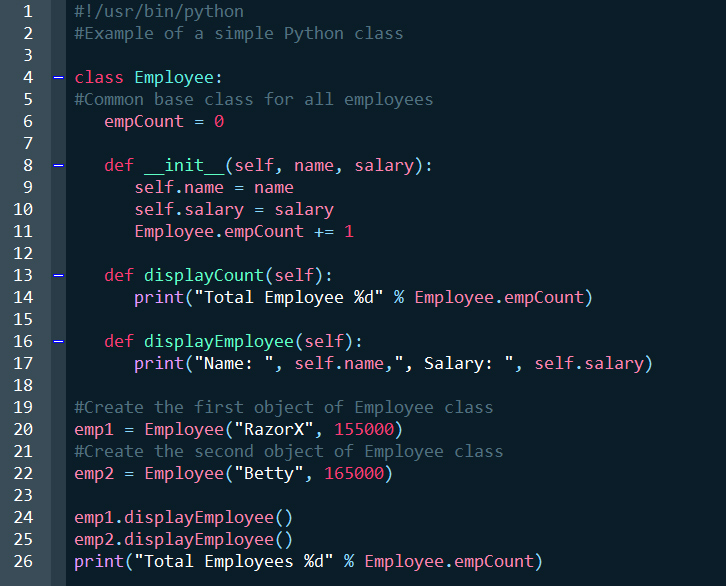
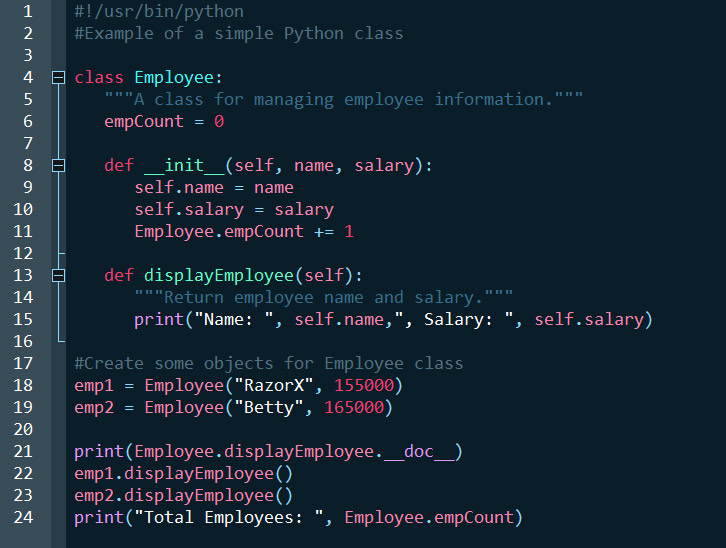
Fold-mark and active range colors were added

diff --git a/LICENSE.md b/LICENSE.md
@@ -4,9 +4,8 @@ Copyright (c) 2014 Daniel Hill aka RazorX - Identity e-mail: public at RazorX.co
 
 
 
-Permission is hereby granted, free of charge, to any person obtaining a copy
-of this software and associated documentation files (the "Software"), to deal
-in the Software without restriction, including without limitation the rights
+Permission is hereby granted, free of charge, to any person obtaining a copy 
+of this software and associated documentation files (the "Software"), to deal in the Software without restriction, including without limitation the rights 
 to use, copy, modify, merge, publish, distribute, sublicense, and/or sell
 copies of the Software, and to permit persons to whom the Software is
 furnished to do so, subject to the following conditions:

diff --git a/README.md b/README.md
@@ -6,7 +6,7 @@ Optional color palette for the Python Wing IDE
 
 About
 ==========================
-Cherry Blossom is a custom color scheme designed for the Python Wing IDE. The scheme is the color approximation of a #FC3C73 Tetrad with high contrast.
+Cherry Blossom is a custom color scheme designed for the Python Wing IDE. The scheme is the color approximation of a #FC3C73 Triad with high contrast.
 
 Author: RazorX aka Daniel Hill 
 

diff --git a/CHANGELOG.md b/CHANGELOG.md
@@ -1,3 +1,10 @@
+## 1.1 (December 26, 2014)
+
+Enhancements:
+
+  - Fold-mark and active range colors were added. Note: These are new and were not available until Wing IDE 5.0.9.
+  - The colors for classname, tripple, tripple double, single string, double string, number, edge-marker, and debug-marker were slightly modified for visual distinction.
+
 ## 1.0 (July 16, 2014)
 
 First release.
